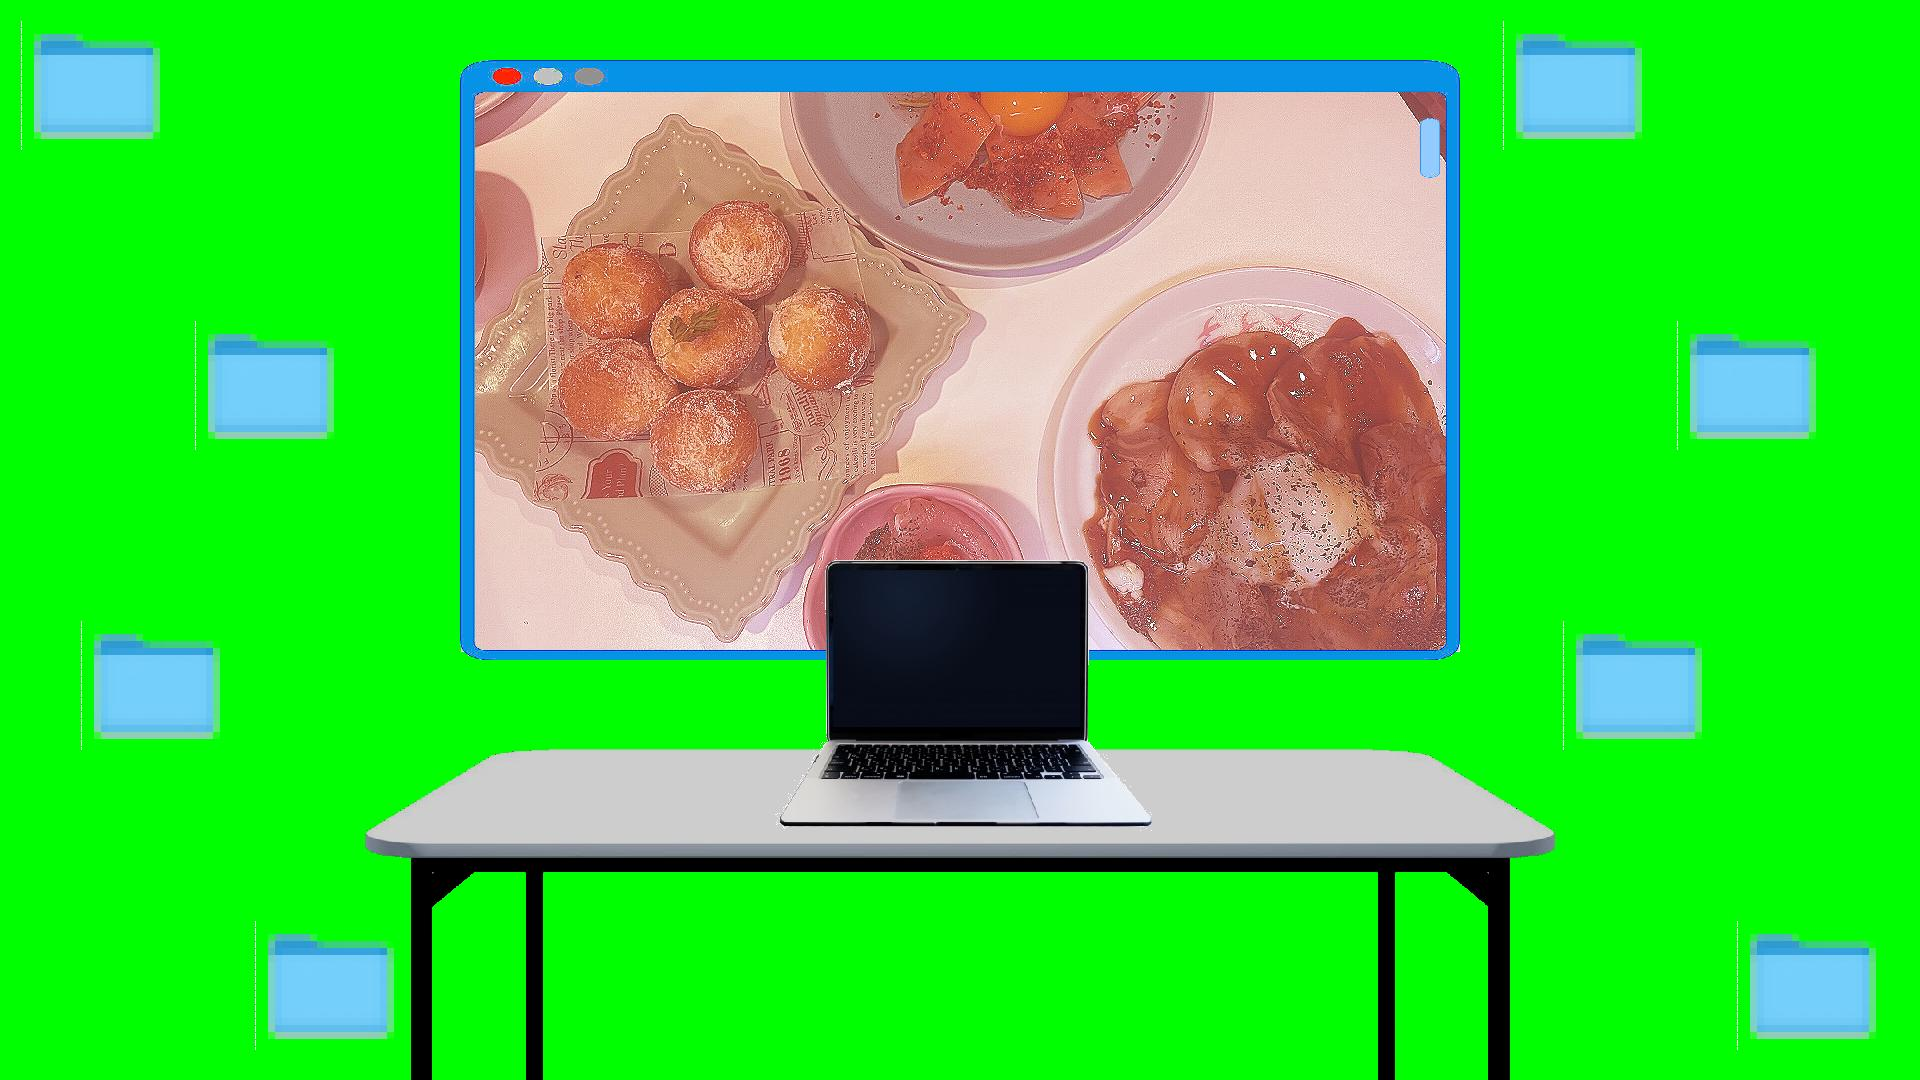
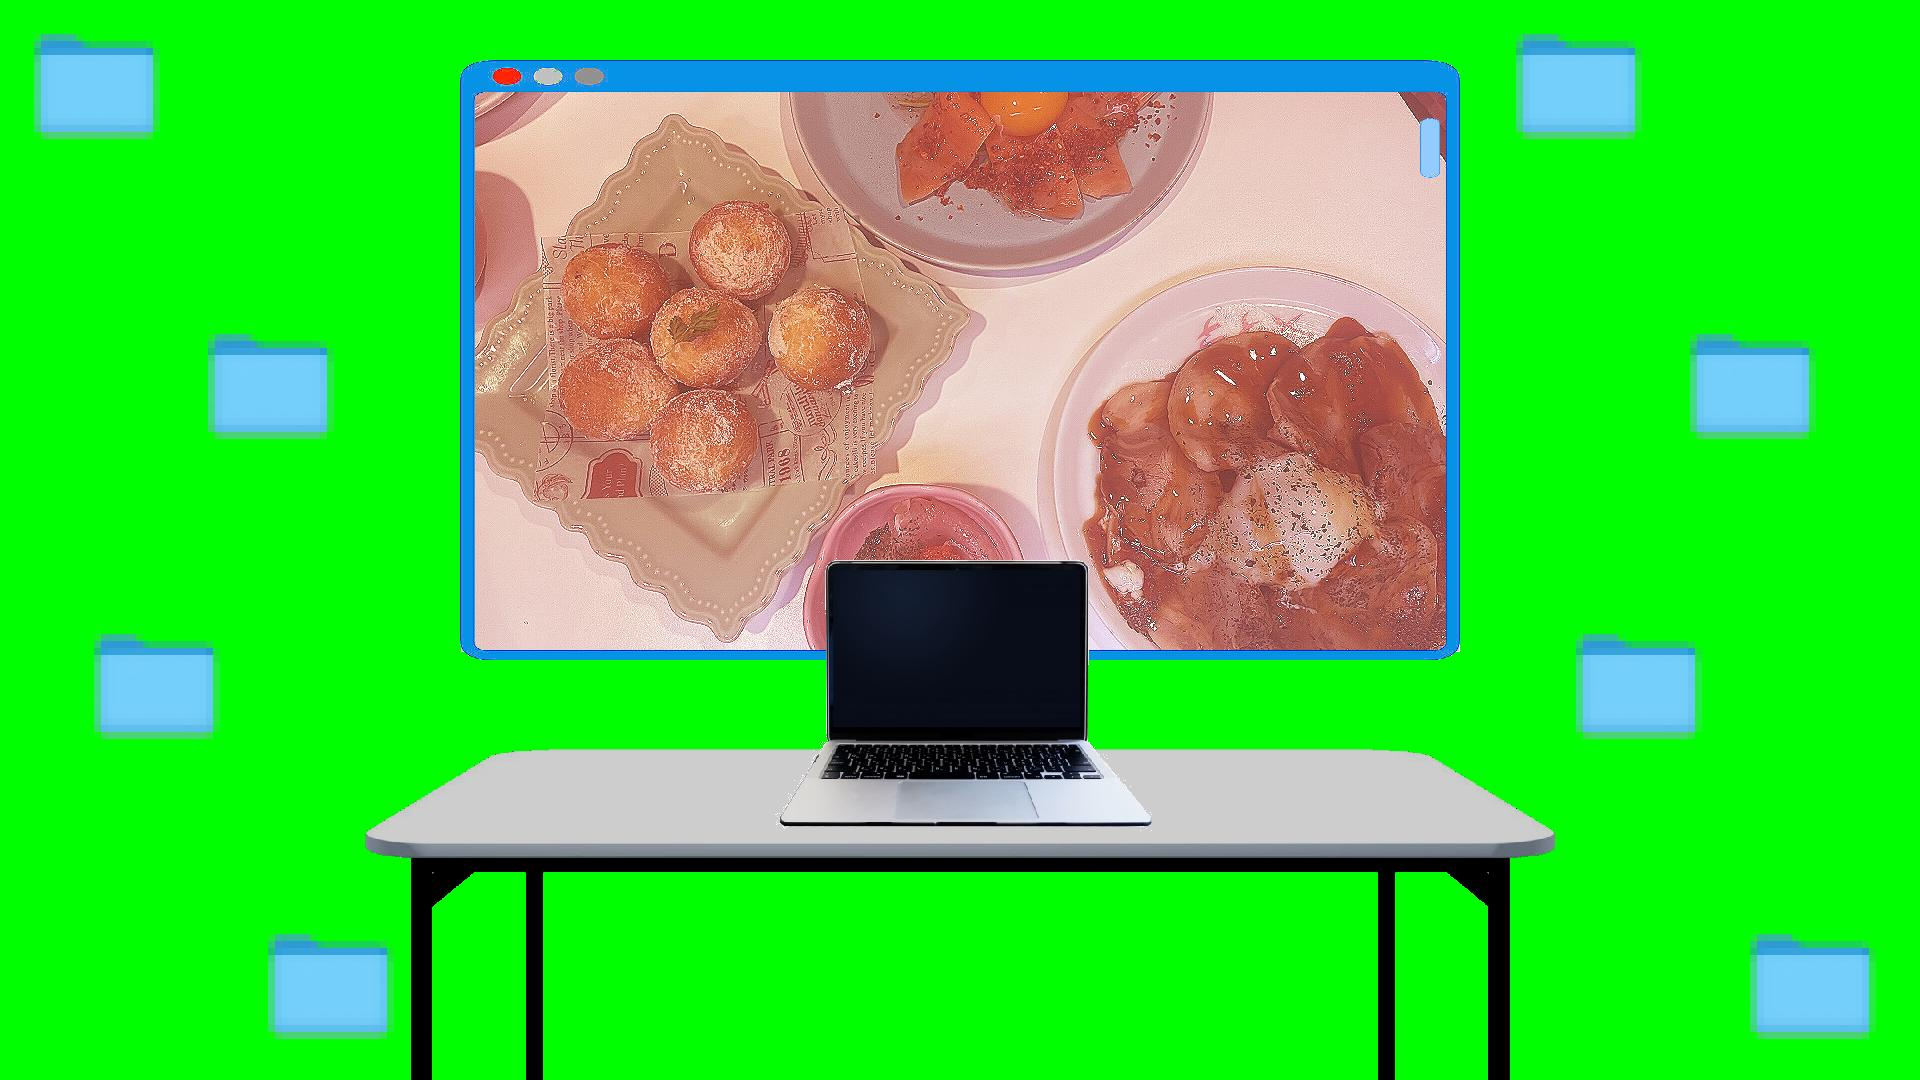
folderのモザイクがうまくいっていないバグを修正

diff --git a/AddGreenback.java b/AddGreenback.java
@@ -1,33 +1,44 @@
 import java.awt.Color;
 
 public class AddGreenback {
-	public static void main(String args[]) {
-    String filename_desk = "desk.png";
-    MyImage image_desk = JpegFileReader.read(filename_desk);
+    public static MyImage execute (MyImage input, int S) {
+        MyImage output = new MyImage(input.width, input.height);
 
-    String filename_output = "desk.jpg";
-    MyImage output = new MyImage(image_desk.width, image_desk.height);
-
-		for(int i = 0; i < image_desk.height; i++) {
-			for(int j = 0; j < image_desk.width; j++) {
+        for(int i = 0; i < input.height; i++) {
+			for(int j = 0; j < input.width; j++) {
 				
-				Color color1 = image_desk.getColor(j, i);
+				Color color1 = input.getColor(j, i);
 
                 int original_r = color1.getRed();
                 int original_g = color1.getGreen();
                 int original_b = color1.getBlue();
 
                 int r, g, b;
-                int S = 0;
-                if (original_r + original_g + original_b > S) {  // white
-                    r = original_r;
-                    g = original_g;
-                    b = original_b;
+
+                if (S == 0) {  // 背景透過画像のとき
+                    if (original_r + original_g + original_b > S) {  // white
+                        r = original_r;
+                        g = original_g;
+                        b = original_b;
+                    }
+                    else {
+                        r = 0;
+                        g = 255;
+                        b = 0;
+                    }
                 }
+
                 else {
-                    r = 0;
-                    g = 255;
-                    b = 0;
+                    if (original_r + original_g + original_b > S) {
+                        r = 0;
+                        g = 255;
+                        b = 0;
+                    }
+                    else {
+                        r = original_r;
+                        g = original_g;
+                        b = original_b;
+                    }
                 }
 
                 Color color2 = new Color(r, g, b);
@@ -35,6 +46,15 @@ public class AddGreenback {
 				output.setColor(j, i, color2);
 			}
 		}
+        return output;
+    }
+
+	public static void main(String args[]) {
+    String filename_desk = "desk.png";
+    MyImage image_desk = JpegFileReader.read(filename_desk);
+
+    String filename_output = "desk.jpg";
+    MyImage output = execute(image_desk, 0);
     JpegFileWriter.write(filename_output, output);
 }
 }

diff --git a/Mosaic.java b/Mosaic.java
@@ -2,7 +2,7 @@ import java.awt.Color;
 
 public class Mosaic {
 
-  public static MyImage execute(MyImage input, Color color, int[][] index, int S) {
+  public static MyImage execute(MyImage input, int[][] index) {
 
 		MyImage output = new MyImage(input.width, input.height);
 
@@ -10,8 +10,6 @@ public class Mosaic {
 	
 		for(int i = 0; i < input.height; i = i + step) {
 			for(int j = 0; j < input.width; j = j + step) {
-    /*for(int i = index[0][1]; i < index[1][1]; i = i + step) {
-			for(int j = index[0][0]; j < index[1][0]; j = j + step) {*/
 
         int r_sum = 0;
         int g_sum = 0;
@@ -23,16 +21,9 @@ public class Mosaic {
           for (int l = 0; l < step; l++){
             try {
               Color color1 = input.getColor(j + k, i + l);
-              if (color1.getRed() + color1.getGreen() + color1.getBlue() > S){  //ほぼ白なら背景色を指定
-                r_sum += color.getRed();
-                g_sum += color.getGreen();
-                b_sum += color.getBlue();
-              }
-              else {
-                r_sum += color1.getRed();
-                g_sum += color1.getGreen();
-                b_sum += color1.getBlue();
-              }
+              r_sum += color1.getRed();
+              g_sum += color1.getGreen();
+              b_sum += color1.getBlue();
               counter += 1;
             } catch (java.lang.ArrayIndexOutOfBoundsException e) {
               break;
@@ -51,7 +42,7 @@ public class Mosaic {
           for (int k = 0; k < step; k++) {
             for (int l = 0; l < step; l++){
               try {
-                if (i + l >= index[0][1] && i + l < index[1][1] && j + k >= index[0][0] && j + k < index[1][0]) {
+                if (i + l >= index[0][1] && i + l <= index[1][1] && j + k >= index[0][0] && j + k <= index[1][0]) {
 				          output.setColor(j + k, i + l, color2);
                 }
                 else {

diff --git a/CvMain.java b/CvMain.java
@@ -32,10 +32,11 @@ public class CvMain {
 		image_mac_binalization = Binalization.execute(image_mac, 255 * 3 - 10);
 
 		// folder加工
-		MyImage image_folder, image_folder_mosaic;
+		MyImage image_folder, image_folder_mosaic, image_folder_green;
 		image_folder = JpegFileReader.read(filename_folder);
+		image_folder_green = AddGreenback.execute(image_folder, 255 * 3 - 150); // 白背景を緑背景にする。そのあとモザイクをかけるのでかなり幅を持たせて白部分をなくす。
 		int[][] default_index = {{0, 0}, {image_folder.width, image_folder.height}};
-		image_folder_mosaic = Mosaic.execute(image_folder, background_color, default_index, 255 * 3 - 20);
+		image_folder_mosaic = Mosaic.execute(image_folder_green, default_index);
 
 		MyImage image_paper;
 		image_paper = JpegFileReader.read(filename_paper);
@@ -76,8 +77,7 @@ public class CvMain {
 		System.out.println(greenindex[1][1]);
 
 		//2.緑のスタート座標とゴール座標を受け取って、中にモザイクかけて返す。
-		Color color = new Color(255, 255, 255);  // 何色でも良い
-		image_output = Mosaic.execute(input, color, greenindex, 1000);  //閾値1000にすればcolorが使われない
+		image_output = Mosaic.execute(input, greenindex);
 
 		//image_output = GetGreenIndexTest.execute(input, greenindex); //モザイクかける部分が正しいか確認するテストコード
 
